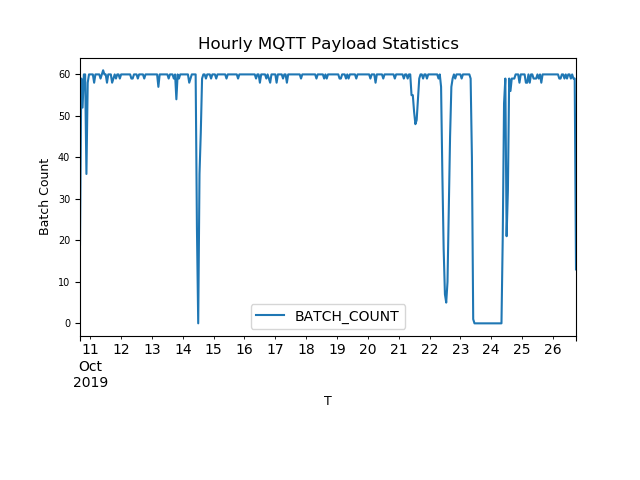
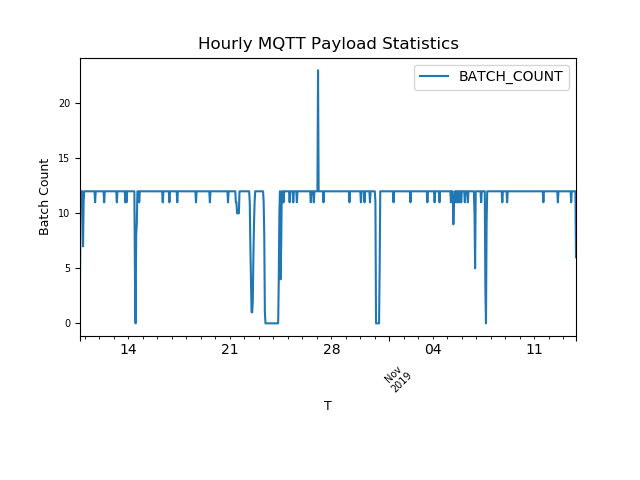
plot 3 update

diff --git a/plot3.py b/plot3.py
@@ -27,11 +27,11 @@ plotconfig = {
     "number": 3,
     "kind": "line",
     "sql": 'SELECT '
-           'DATE_FORMAT(MIN(ts), "%Y-%m-%d %H:00:00") AS TS, '
-           'COUNT(DISTINCT mqtt_batch) AS BATCH_COUNT '
-           'FROM wifi_clients '
+           'v.ts AS TS, '
+           'v.mqtt_count AS BATCH_COUNT '
+           'FROM v__wcb__h__record_counts AS v '
            'WHERE ts >= "2019-10-10 00:00:00" '
-           'GROUP BY YEAR(ts), MONTH(ts), DAY(ts), HOUR(ts)',
+           '',
     "x_column": "TS",
     "y_column": "BATCH_COUNT",
     "index_column": "TS",

diff --git a/README.md b/README.md
@@ -56,13 +56,10 @@ ORDER BY mqtt_batch
 
 SQL:
 ```mysql
-SELECT
-       DATE_FORMAT(MIN(ts), "%Y-%m-%d %H:00:00") AS TS,
-       COUNT(DISTINCT mqtt_batch) AS BATCH_COUNT
-FROM wifi_clients
-WHERE ts >= "2019-10-10 00:00:00"
-GROUP BY YEAR(ts), MONTH(ts), DAY(ts), HOUR(ts)
-;
+SELECT 
+    v.ts AS TS, 
+    v.mqtt_count AS BATCH_COUNT 
+FROM v__wcb__h__record_counts AS v;
 ```
 
 
